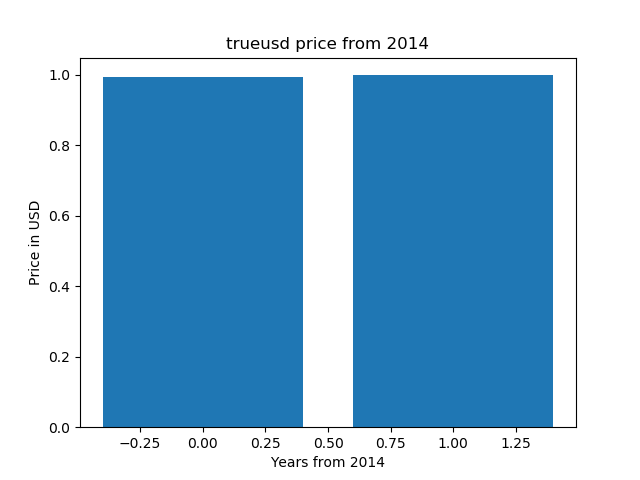
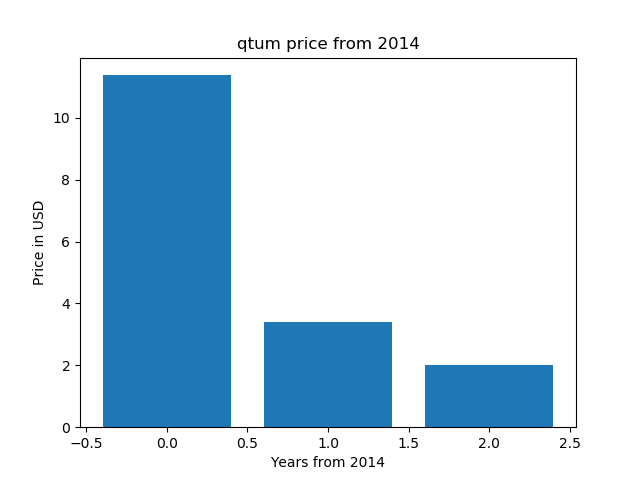
first commit

diff --git a/example.py b/example.py
@@ -10,7 +10,7 @@ from time import gmtime, strftime
 import matplotlib.pyplot as plt
 
 enddate = strftime("%Y%m%d", gmtime())
-r  = requests.get("https://coinmarketcap.com/currencies/trueusd/historical-data/?start=20140101&end={0}".format(enddate))
+r  = requests.get("https://coinmarketcap.com/currencies/qtum/historical-data/?start=20140101&end={0}".format(enddate))
 data = r.text
 
 soup = BeautifulSoup(data, "html.parser")
@@ -44,7 +44,7 @@ print(x)
 
 x = list(range(0, len(prices)))
 
-plt.title('trueusd price from 2014')
+plt.title('qtum price from 2014')
 plt.ylabel('Price in USD')
 plt.xlabel('Years from 2014')
 plt.bar(x, prices)

diff --git a/README.md b/README.md
@@ -1,6 +1,6 @@
-# trueusd price chart 
+# qtum price chart 
 
-trueusd price chart (matplotlib, python)
+qtum price chart (matplotlib, python)
 
 https://pythonprogramminglanguage.com
 
